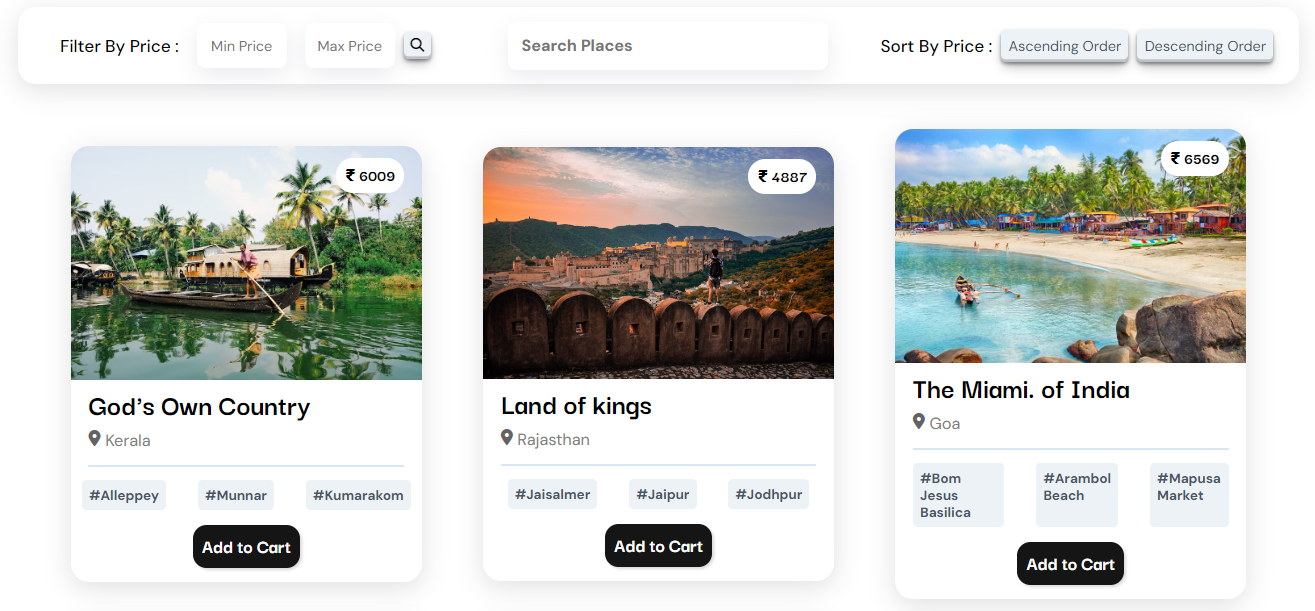
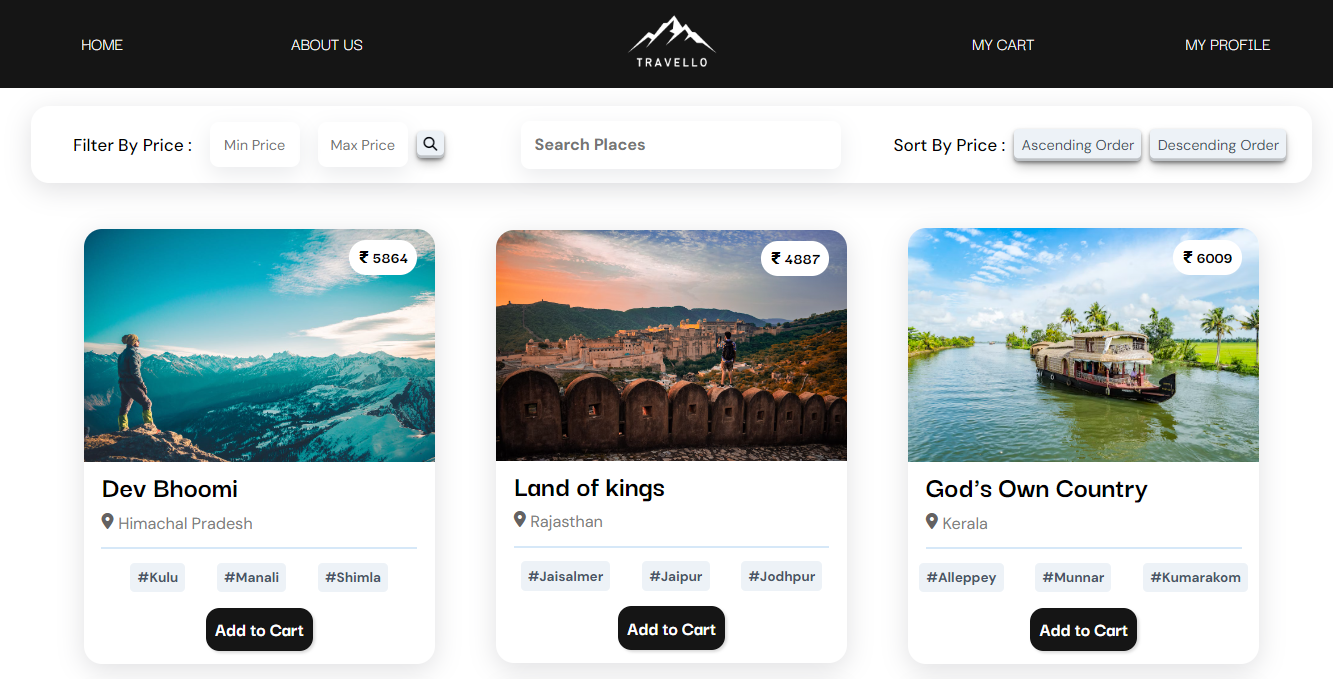
updated readme

diff --git a/README.md b/README.md
@@ -4,7 +4,7 @@
   <img src="https://github.com/audacity07/wonderful-sound-2096/blob/master/images/LandingPage/logo_with_name.png?raw=true" alt="html" width="120" height="120"/>
 </div>
 
-Embark on a journey of a lifetime with Wanderlust World - your go-to travel website equipped with seamless login, signup, search, and filtering functionalities. Discover your dream destination, connect with fellow travelers, and share your experiences within a vibrant community. Let Wanderlust World be your guide to endless adventures and unforgettable memories. Join us now and unleash your wanderlust! 🌍✈
+Embark on a journey of a lifetime with Travello - your go-to travel website equipped with seamless login, signup, search, and filtering functionalities. Discover your dream destination, connect with fellow travelers, and share your experiences within a vibrant community. Let Travello be your guide to endless adventures and unforgettable memories. Join us now and unleash your wanderlust! 🌍✈
 
 ## Tech Stacks Used
 
@@ -28,6 +28,7 @@ Embark on a journey of a lifetime with Wanderlust World - your go-to travel webs
 - Login and Sign up functionality
 - Checkout
 - Delete Account functionality
+- Credit/Debit & UPI Payment Functionality
 
 ## Run Locally
 
@@ -47,7 +48,6 @@ https://github.com/audacity07/wonderful-sound-2096.git
  <img src="https://github.com/audacity07/wonderful-sound-2096/blob/master/images/github%20page/pic3.PNG?raw=true" width="942" height="478"/>
  <img src="https://github.com/audacity07/wonderful-sound-2096/blob/master/images/github%20page/pic5.PNG?raw=true" width="942" height="480"/>
  <img src="https://github.com/audacity07/wonderful-sound-2096/blob/master/images/github%20page/pic6.PNG?raw=true" width="942" height="480"/>
-  <img src="https://github.com/audacity07/wonderful-sound-2096/blob/master/images/github%20page/pic4.PNG?raw=true" width="942" height="474"/>
   
 <div/>
 
